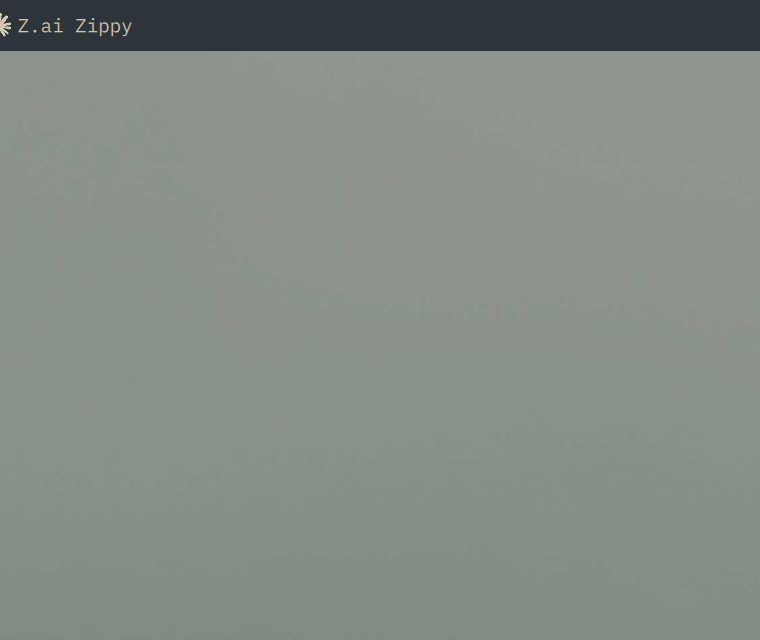
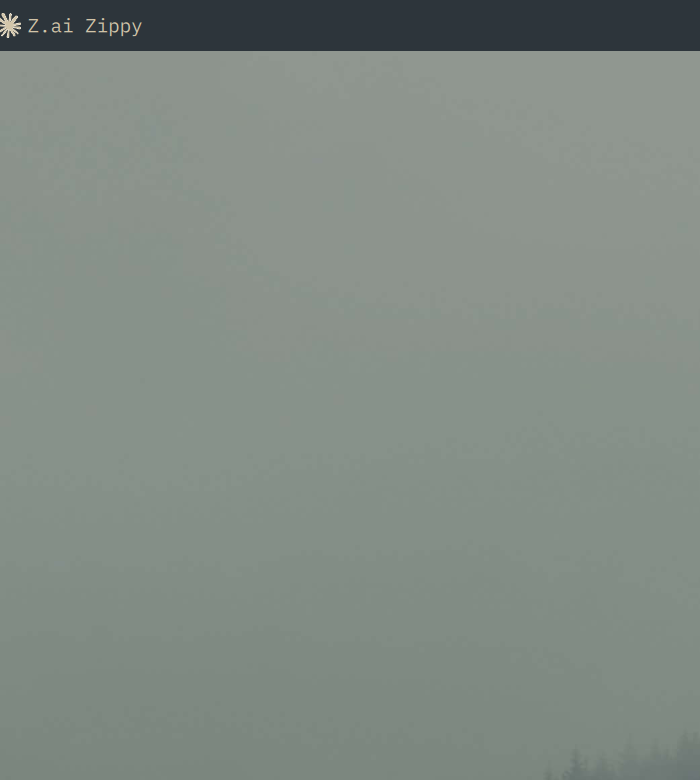
feat: stacked usage bars per profile, README why-section, robust usage resolution
Rows now carry full usage metrics: two thin progress bars under the name
(session, weekly — accent fill, urgent past 80%) plus plan and nearest
reset; key prefixes no longer render anywhere in the menu. Usage fetch
resolves the multi-account shim explicitly (~/.local/bin before PATH
before ~/.cargo/bin) — GUI-service PATHs put cargo first, which silently
bypassed the shim and lost per-key accounts. README gains the why: Claude
Code is the best harness, we just constantly run other models through it.

Changed region(s): [[0.0, 0.0, 1.0, 0.0938], [0.99, 0.9688, 1.0, 1.0]]

diff --git a/Widget.qml b/Widget.qml
@@ -66,6 +66,36 @@ Panel {
     if (!statusProc.running) statusProc.running = true
   }
 
+  function refreshUsage() {
+    if (!usageProc.running) usageProc.running = true
+  }
+
+  // Earliest upcoming window reset across an account's metrics, as an
+  // epoch-ms timestamp (0 when none are known).
+  function nearestReset(metrics) {
+    if (!metrics) return 0
+    var best = 0
+    var now = Date.now()
+    for (var i = 0; i < metrics.length; i++) {
+      var at = metrics[i].reset_at
+      if (!at) continue
+      var t = Date.parse(at)
+      if (t > now && (best === 0 || t < best)) best = t
+    }
+    return best
+  }
+
+  function humanUntil(then) {
+    var s = Math.floor((then - Date.now()) / 1000)
+    if (s <= 0) return ""
+    var d = Math.floor(s / 86400); s -= d * 86400
+    var h = Math.floor(s / 3600); s -= h * 3600
+    var m = Math.floor(s / 60)
+    if (d > 0) return d + "d " + h + "h"
+    if (h > 0) return h + "h " + m + "m"
+    return m + "m"
+  }
+
   function announce(name) {
     // Default app-name is deliberate: omarchy-action is the notification
     // daemon's DND-bypass identity for user-action confirmations.
@@ -164,6 +194,9 @@ Panel {
   // label even then; status --json is a cheap local read.
   Timer { interval: 20000; repeat: true; running: true; onTriggered: root.refreshStatus() }
 
+  // Usage data goes stale while the picker stays open — refetch each minute.
+  Timer { interval: 60000; repeat: true; running: root.opened; onTriggered: root.refreshUsage() }
+
   FileView {
     path: root.settingsPath
     watchChanges: true
@@ -256,7 +289,7 @@ Panel {
     contentWidth: Style.space(228)
     contentHeight: fittedContentHeight(menuColumn.implicitHeight, Style.space(340))
 
-    onOpenChanged: if (open && !usageProc.running) usageProc.running = true
+    onOpenChanged: if (open) root.refreshUsage()
 
     PanelKeyCatcher {
       id: keyCatcher
@@ -309,8 +342,9 @@ Panel {
         model: root.profiles
 
         delegate: Rectangle {
+          id: row
           width: menuColumn.width
-          height: Style.space(30)
+          height: usageInfo ? Style.space(56) : Style.space(30)
           radius: Style.cornerRadius
           color: rowMouse.containsMouse
             ? Util.alpha(rowFg.color, 0.08)
@@ -319,46 +353,85 @@ Panel {
           readonly property color rowFg: root.bar ? root.bar.barForeground : Color.foreground
           readonly property var prof: modelData
           readonly property bool active: root.statusJson && root.statusJson.current === prof.id
-          readonly property var usage: prof.usage_id ? (root.usageById[prof.usage_id] || null) : null
+          readonly property var usageInfo: prof.usage_id ? (root.usageById[prof.usage_id] || null) : null
+          // Progress-bar metrics (max 2), one per window with a percent.
+          readonly property var barMetrics: {
+            if (!usageInfo || !usageInfo.metrics) return []
+            var withPercent = []
+            for (var i = 0; i < usageInfo.metrics.length; i++)
+              if (usageInfo.metrics[i].percent != null) withPercent.push(usageInfo.metrics[i])
+            return withPercent.slice(0, 2)
+          }
+          // Footer line: "GLM Coding Max · resets in 3h 55m" — plan name
+          // plus the nearest upcoming window reset. Hidden when there is
+          // no usage data; key material is never rendered in the menu.
+          readonly property string detailLine: {
+            if (!usageInfo) return ""
+            var parts = []
+            if (usageInfo.plan) parts.push(usageInfo.plan)
+            var reset = root.nearestReset(usageInfo.metrics)
+            if (reset > 0) parts.push("resets in " + root.humanUntil(reset))
+            return parts.join(" · ")
+          }
 
           Text {
             anchors.left: parent.left
             anchors.leftMargin: Style.space(8)
             anchors.verticalCenter: parent.verticalCenter
-            text: parent.active ? "" : "·"
+            visible: row.active
+            text: ""
             color: Color.accent
             font.family: Style.font.family
             font.pixelSize: Style.font.body
           }
 
-          Text {
+          // Left+right anchors give the column a definite width, so the
+          // child Texts can bind width to it without a binding loop.
+          Column {
             anchors.left: parent.left
             anchors.leftMargin: Style.space(26)
-            anchors.right: usageText.left
-            anchors.rightMargin: Style.space(8)
-            anchors.verticalCenter: parent.verticalCenter
-            text: prof.name
-            color: parent.active ? Color.accent : parent.rowFg
-            font.family: Style.font.family
-            font.pixelSize: Style.font.body
-            elide: Text.ElideRight
-          }
-
-          Text {
-            id: usageText
             anchors.right: parent.right
             anchors.rightMargin: Style.space(8)
             anchors.verticalCenter: parent.verticalCenter
-            // With usage: "6% · 43%" (session · weekly, every metric the
-            // account reports) — urgent when any window passes 80%.
-            text: parent.usage
-              ? (parent.usage.short || (parent.usage.percent != null ? parent.usage.percent + "%" : ""))
-              : (parent.prof.token_prefix || "")
-            color: parent.usage
-              ? (parent.usage.percent > 80 ? Color.urgent : parent.rowFg)
-              : Color.muted
-            font.family: Style.font.family
-            font.pixelSize: Style.font.caption
+            spacing: Style.space(1)
+
+            Text {
+              width: parent.width
+              text: row.prof.name
+              color: row.active ? Color.accent : row.rowFg
+              font.family: Style.font.family
+              font.pixelSize: Style.font.body
+              elide: Text.ElideRight
+            }
+
+            // One thin progress bar per usage window (session, weekly),
+            // stacked under the name; urgent fill past 80%.
+            Column {
+              id: barStack
+              width: parent.width
+              spacing: Style.space(2)
+              visible: row.barMetrics.length > 0
+
+              Repeater {
+                model: row.barMetrics
+
+                UsageBar {
+                  width: barStack.width
+                  fraction: Util.clamp((modelData.percent || 0) / 100, 0, 1)
+                  warn: (modelData.percent || 0) > 80
+                }
+              }
+            }
+
+            Text {
+              width: parent.width
+              visible: text !== ""
+              text: row.detailLine
+              color: Color.muted
+              font.family: Style.font.family
+              font.pixelSize: Style.font.caption
+              elide: Text.ElideRight
+            }
           }
 
           MouseArea {
@@ -432,6 +505,25 @@ Panel {
         font.pixelSize: Style.font.caption
         elide: Text.ElideRight
       }
+    }
+  }
+
+  // Thin progress meter for one usage window (session, weekly). Track in
+  // muted, fill in the accent — urgent once the window passes 80%.
+  component UsageBar: Rectangle {
+    property real fraction: 0
+    property bool warn: false
+
+    width: Style.space(28)
+    height: Math.max(3, Style.space(2))
+    radius: height / 2
+    color: Util.alpha(Color.muted, 0.4)
+
+    Rectangle {
+      width: Math.max(parent.height, Math.round(parent.width * parent.fraction))
+      height: parent.height
+      radius: parent.radius
+      color: parent.warn ? Color.urgent : Color.accent
     }
   }
 }

diff --git a/README.md b/README.md
@@ -6,6 +6,17 @@ Claude Code is running on, and switches between any number of configured
 profiles — API keys, Anthropic-compatible endpoints, model mappings, or back
 to the official Claude OAuth login — from a popup in the bar.
 
+## Why
+
+Claude Code is still the best dev harness around — the agent loop, the tooling,
+the ergonomics. But being married to one model or vendor is a choice we don't
+want to make: we constantly run other models (GLM coding plans, other
+Anthropic-compatible providers) *through* Claude Code. The friction was never
+the models — it was the key juggling: hand-editing `settings.json`, keeping
+model mappings straight, wondering which key is live. This plugin treats every
+key/endpoint as a named profile and makes switching a menubar click, with each
+key's usage right there so you know which plan to burn next.
+
 The bar item shows the Claude logomark (tinted to your theme) with the active
 profile name. Click for the profile picker, middle-click to quick-swap between
 your two most-used profiles. Every switch announces itself with a toast.
